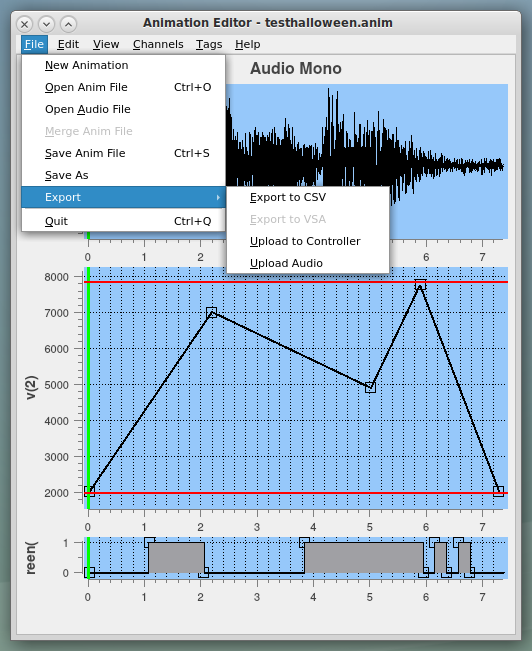
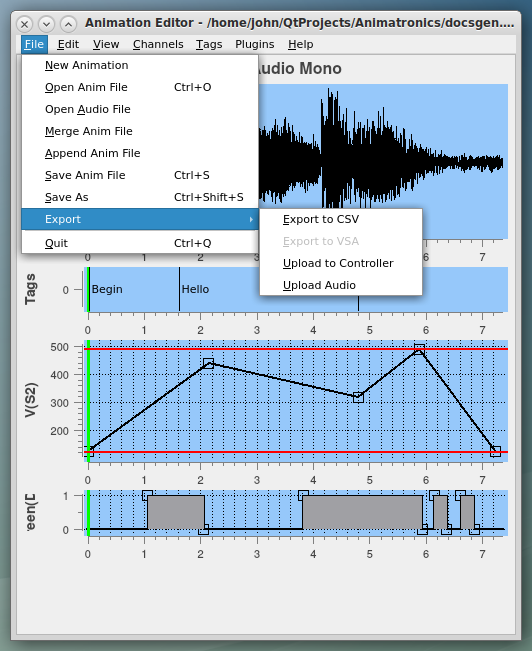
Updated some of the Help

diff --git a/docs/Help.md b/docs/Help.md
@@ -145,13 +145,28 @@ The File menu contains the following options:
 + New Animation - Discard current animation and start from scratch
 + Open Anim File - Open and Load an existing animation file
 + Open Audio file - Open and attach audio file to the current animation (.wav only)
-+ Merge Anim File - Open an existing animation and merge with current one
++ Merge Anim File - Open an existing animation and merge new channels into current one
++ Append Anim File - Open an existing animation and append common channels to current one
 + Save Anim File - Save the current animation to the file it was loaded from
 + Save As - Save the current animation under a new filename
 + Export - Export to an alternative file format or send to controller
 + Quit - Duh!
 
 Hauntimator tries to be careful about quitting without saving or overwriting files.
+
+The Merge and Append options are intended to support multiple people or sessions working on
+the same animation.  Merge is used to merge animation files that do not share channels, e.g.
+different figures in a multi-figure display.  An individual can work on a single figure and
+the results can be merged into a single animation for the entire display.  Channels whose names
+appear in both files will not be merged.  They are ignored and a warning will appear.
+
+The Append option is intended for animations that are split temporally rather than by
+channel.  Multiple persors can focus on different ranges of time while building the same
+channels.  These can then be appended to form a single animation for the entire display.
+Appended channels must appear in both animations and other channels will be ignored and
+a warning presented.  Note that the order of the append is irrelevant.  Prior, successor,
+or overlapping time ranges can be appended and they are inserted into the existing channel
+at their designated time.
 
 The Export option is generally used to upload the control file to the controller.
 To accomplish, the file is written as a CSV (comma-separated values) file and then
@@ -179,6 +194,15 @@ The Edit menu contains the following options:
 + Edit Metadata - Edit some numeric data for the animation
 + Edit Preferences - Edit the preferences settings for Hauntimator
 
+Undo and Redo generally behave as expected with some caveats.  As work progresses, Hauntimator
+attempts to save both the state of the animation itself as well as ancillary information such as
+which points and channels are selected and what time range is displayed.  This is to attempt to
+make it easy to undo an action and then perform an alternative to that action.  However, this
+results in sometimes saving a state that is merely a selection change rather than an actual
+edit.  Also, when using the arrow keys to shift points, each shift is a separate state save.
+This may result in many states being saved that may have to be undone.  Hopefully, this will
+not become too annoying.
+
 Hauntimator comes with a list of known servo types typically stored in a file named servos.csh.
 Each entry specifies the range of motion of that type of servo and its duty cycles.  This
 information is used to limit the control outputs appropriately.  New servo types may be
@@ -197,17 +221,16 @@ The Preferences specify general information that Hauntimator uses.  Some if this
 to the hardware being controlled, some controls display functionality, and some relates
 to files and communication.  The individual preferences are:
 
-+ MaxDigitalChannels - The maximum number of digital channels supported by the hardware.  If the user has installed some number of 74HC595N chips in their hardware, there will be 8 available digital channels per chip.  The port numbers for digital channels begin at MaxServoChannels and counts up from there.
++ MaxDigitalChannels - The maximum number of digital channels supported by the hardware.  If the user has installed some number of 74HC595N chips in their hardware, there will be 8 available digital channels per chip.  The port numbers for digital channels begin at 0 and count up.  Additional ports may be assigned to direct GPIO outputs if any are available.
 + MaxServoChannels - The maximum number of servo channels supported by the hardware.  If
- the user has installed some number of PCA9685 boards in their hardware, there will be 16 available servos per board.  The port numbers for servo channels begin at 0 and count up.
-+ ServoDefaultMinimum - If the user has installed PCA9685 boards in their hardware, they expect values in the range 0 to 4095 for servo control.  Other boards may use other values.
-+ ServoDefaultMaximum - If the user has installed PCA9685 boards in their hardware, they expect values in the range 0 to 4095 for servo control.  Other boards may use other values.
-+ Ordering - This controls the display of channels in the Hauntimator main window.  The channels may be ordered, from top to bottom, in Alphabetical order by channel name (makes them easy to find), in Numeric order by port number (nicely separates servo and digital channels), or in the order the channels were created.
+ the user has installed some number of PCA9685 boards in their hardware, there will be 16 available servos per board.  The port numbers for servo channels begin at 0 and count up.  Additional ports may be assigned to direct GPIO outputs if any are available.
++ ServoDefaultMinimum - If the user has installed PCA9685 boards in their hardware, they expect values in the range 0 to 4095 for servo control.  Other boards may use other values.  GPIO pins on a Pico assume that servos take a value between 0 and 65535.  Hauntimator treats all servos the same and assumes that the controller software will shift the values to the appropriate range.
++ ServoDefaultMaximum - If the user has installed PCA9685 boards in their hardware, they expect values in the range 0 to 4095 for servo control.  Other boards may use other values.  GPIO pins on a Pico assume that servos take a value between 0 and 65535.  Hauntimator treats all servos the same and assumes that the controller software will shift the values to the appropriate range.  Thus, the typical value here is 65535 and the controller shifts that to a range of 0-4095 prior to entering it into the PCA9685.
++ Ordering - This controls the display of channels in the Hauntimator main window.  The channels may be ordered, from top to bottom, in Alphabetical order by channel name (makes them easy to find), in Numeric order by port number, or in the order the channels were created.
 + AutoSave - Controls saving of the animation every time an edit is made.  The saved copy of the animation is stored in a file with the same name as the animation with ".autosave" appended or in a file named "unnamedfile.anim.autosave" if the animation has never been named.
-+ ShowTips - Controls the use of popup tool tips within Hauntimator.  Beginning users may find the popup tips helpful while an experienced user may find them bothersome.  Some go away automatically so hopefully they will not probe to be obnoxious.
-+ ServoDataFile - The name of the file containing known servo types and their associated information.  The user may rename this file or move it so the preference allows that.
-+ UploadCSVFile - The name of the CSV control file as it is used in the controller software.  The Pico software that accompanies the Hauntimator and is run on the Pico looks for a particular file and this must match that.
-+ UploadAudioFile - The name of the audio file as it is used in the controller software.  The Pico software that accompanies the Hauntimator and is run on the Pico looks for a particular file and this must match that.  Originally, Hauntimator was empowered to upload the audio file but this can be problematic and very time-consuming so that feature is currently disabled.  The supporting preference is still there for later use.
++ ShowTips - Controls the use of popup tool tips within Hauntimator.  Beginning users may find the popup tips helpful while an experienced user may find them bothersome.  Some go away automatically so hopefully they will not prove to be obnoxious.
++ ServoDataFile - The name of the file containing known servo types and their associated information.  The user may rename this file or move it so the preference allows that.  The values in the servo file are used to set initial limits on the channel values.  These are based on the ServoDefaultMaximum and ServoDefaultMinimum and the duty cycle of the servo from the file.  These are NOT used to distinguish servos on GPIO pins from servos on PCA9685 boards.  That is done within the controller.
++ UploadPath - The name of the directory to upload audio and control files to as it is used in the controller software.  The Pico software that accompanies the Hauntimator and is run on the Pico looks for a particular file and this must match that.  This will typically be on the SD card and look like "/sd/anims" to match expectations in the controller software.  If the controller software is edited, this can be changed to match.
 + TTYPortRoot - This is the name of the communications port to use to talk to the controller when it is plugged into the USB port on the computer that Hauntimator runs on.  Under linux, this is typically /dev/ttyACM0.  On a Mac it is more like /dev/tty00bb10.  Under Windows it is something I don't care about.
 
 <a name="view">
@@ -239,7 +262,7 @@ is designed to aid in this process.  The View menu contains the following option
 
 The View menu mostly unzooms the display.  To zoom in to a particular time range, there are
 several methods available.  The fastest, wildest, least specific method is to click and
-hold the left mouse button within the audio pane (either if stereo) and drag.  If the 
+hold the ctrl-left mouse button within the audio pane (either if stereo) and drag.  If the 
 cursor is dragged up or down, the entire display zooms in or out around where the user
 clicked.  If the cursor is dragged left or right, the entire display pans left and right.
 The user may quickly select a reasonable time range upon which to work.
@@ -249,7 +272,8 @@ and use Set Left and Set Right buttons.  The user can hit Play and at the desire
 time hit Set Left.  This will immediately set the left edge of the displayed time range
 to the playback time when Set Left was clicked.  Set Right does the same thing to the
 right edge of the displayed time range.  The user may stop playback before hitting Set
-Left or Set Right.
+Left or Set Right.  Note that the user may left click within the Aufio pane and drag the
+green bar to the desired start or end time and them click Set Left or Set Right.
 
 A third method is supported by tags within the animation.  Clicking the left mouse
 button on a tag within the tag pane while holding down the Ctrl key will zoom the
@@ -265,7 +289,7 @@ any of several sources and is closely coupled with the hardware controller and i
 software.  Generally, the controller will play an animation until both its audio tracks and
 its control file have completed playing.  If there are seven seconds of audio and ten
 seconds of animation control, it will play for ten seconds.  If there are seven seconds of
-audio and five seonds of animation control, it will play for seven seconds.  Thus, the
+audio and five seconds of animation control, it will play for seven seconds.  Thus, the
 playback duration is set by the longer of the audio or the CSV file containing the control
 values.
 
@@ -282,6 +306,22 @@ time range to the current window.  The animation metadata is accessed from the [
 
 The user may undo setting the end time via the standard ctrl-Z mechanism or, if too late for
 that, by entering a negative number for the end time and saving the metadata.
+
+Playback within Hauntimator is constrained by the time range displayed.  Playback will commence
+at the left edge of the displayed audio pane and continue to the right unless stopped by the user.
+When playback reaches the right edge of the display, it automatically rewinds to the beginning
+of the displayed range.  However, if the left edge of the display is a time prior to the start
+of the audio, playback will jump to the start of the audio and proceed from there.
+
+![Playback Controls](images/playback_controls.png)
+
+As mentioned above, the user may set the playback range by placing the green timebar at the
+desired start or end range and then click Set Left or Set Right.  The Play/Pause and Rewind buttons
+are probably obvious in function.  A Speed select is available to better assess proper alignment
+of behaviors and outputs.  To support this, the Live checkbox is available.  If the Live box is
+checked, then any Selected (green background) channels will be output directly to the controller.
+Note that this is very slow so it cannot play back motions very fast and smoothly.  It is intended
+for visual correlation.
 
 <a name="channels">
 &nbsp;
@@ -412,10 +452,11 @@ be automagically added to the Help menu.
 
 Currently Hauntimator and the Raspberry Pi Pico system support only .wav (PCM) audio, either mono or stereo.
 Hauntimator runs on your desktop or other higher-powered system so it can handle higher sample rates such as
-44,100Hz.  However, the Pico can only handle sample rates of 11,025Hz, 16-bit in stereo primarily due to
-slow read times from the SD card.  MP3 libraries for the Pico's Micropython are not yet available so the
-I/O cannot easily be reduced.  This generally requires that the user use a desktop tool such as ffmpeg
-to downsample any audio and convert it to .wav format prior to loading on the SD card for the Pico.
+44,100Hz.  The Pico can also handle sample rates of 44,100Hz, 16-bit in stereo as well.  However, the phoneme
+plugin only accepts 16,000 Hz mono audio for processing.
+This generally requires that the user use a desktop tool such as ffmpeg
+to downsample any audio and convert it to .wav format prior to running the phoneme plugin.  More discussion
+of this is available in the phoneme-specific help page.
 
 When displaying the audio tracks in Hauntimator, the display detects mono or stereo and displays all the
 tracks available.  The user may optionally hide one or both tracks.  This may be useful if the dialogue
@@ -567,17 +608,6 @@ from it.  This disrupts the communication between Hauntimator and the main softw
 running on the controller.  Again the user will need to reset the controller and
 allow the main program to start to let Hauntimator reenable communications.
 
-The Raspberry Pi Pico used for development and testing has a limited ability to
-support this functionality, primarily in the use of an SD card.  In general, the
-audio track needs to be sampled at 11025 Hz or lower in stereo 16-bit mode or
-22050 Hz in mono 16-bit mode due to the slowness of reading from the SD card.
-Higher sampling rates lead to breakups and skips in the audio playback.  Additionally,
-putting the control file on the SD card is problematic due to the audio playback
-taking all the read cycles.  Thus, generally the audio is stored on the SD card at
-a lower sample rate and the control file is stored in the limited flash memory.
-Smaller animations of a few seconds may be stored completely in flash memory and
-do not seem to suffer the same problems.  Pico clones with larger flash memory
-may also be used.
 An animation controlling 16 servos and 16 digital channels requires around 7kB per
 second of animation so a maximum of 2 to 3 minutes of animation may be stored in
 the Pico's 1 MB or so of available flash.
@@ -589,6 +619,6 @@ mileage will vary.  Hauntimator has been tested with MicroPython only.
 
 ***
 
-Copyright 2024 John R. Wright, William R. Douglas
+Copyright 2024 John R. Wright, William R. Douglas - 1031_Systems
 
 

diff --git a/docs/HotKeys.md b/docs/HotKeys.md
@@ -4,7 +4,7 @@
 ## Normal Keys
 - P - Toggle Playback controls display
 - T - Toggle Tag panel display
-- Del - Delete selected points in channel
+- Del - Delete selected points in channel(s)
 
 ## Control Keys
 - Ctrl-A - Select All Channels
@@ -19,6 +19,7 @@
 - Ctrl-Q - Quit
 - Ctrl-R - Restore channel display range to default
 - Ctrl-S - Save animation file
+- Ctrl-Shift-S - Save animation file with another name
 - Ctrl-T - Add Tag at green bar
 - Ctrl-V - Paste
 - Ctrl-Z - Undo
@@ -45,12 +46,13 @@
 - Shift-Left off tag - Insert tag
 - Ctrl-Left on tag - Zoom display to tag
 - Left on tag - Select to modify tag time
-- Left Drag Up and Down - Zoom time range
-- Left Drag Side to Side - Pan time range left and right
+- Left Drag Side to Side - Move selected tag left and right
 
 ### In Audio Pane
-- Left Drag Up and Down - Zoom time range
-- Left Drag Side to Side - Pan time range left and right
+- Left - Set current playback to click position
+- Left Drag - Continue setting current playback to drag position
+- Ctrl-Left Drag Up and Down - Zoom time range
+- Ctrl-Left Drag Side to Side - Pan time range left and right
 
 ---
 ## General Mouse Usage
@@ -60,12 +62,12 @@ it is used for inserting or deleting tags or control points.  With
 Control it is used to Select or Deselect a channel, adding it to or
 removing it from the set of selected channels.
 
-Outside of a channel pane, the left mouse button without shift or 
-control, zooms and pans the time range for the entire display unless
-on a tag in the Tag pane.
+Within an audio pane, the left mouse button without shift or 
+control, selects the current cursor position as the playback time.
+With Ctrl, it zooms and pans the time range for the entire display.
 
 Within a channel pane, the wheel zooms the vertical data range about
 the location of the cursor.  The right mouse button brings up the
 tools menu for the channel pane.
 
-Copyright 2024 John R. Wright, William R. Douglas
+Copyright 2024 John R. Wright, William R. Douglas - 1031_Systems
